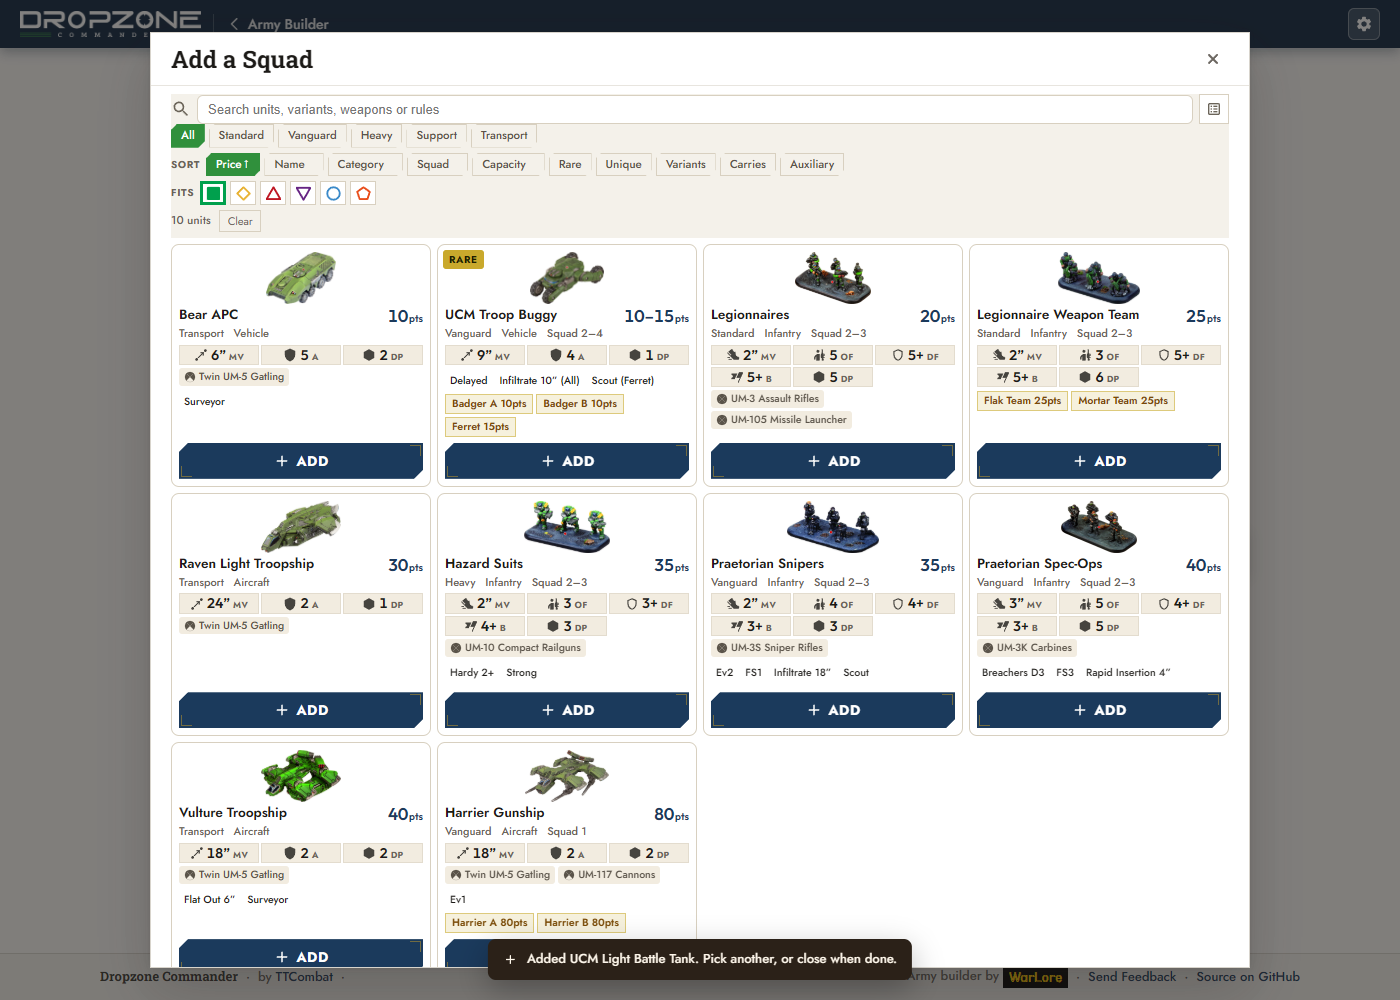
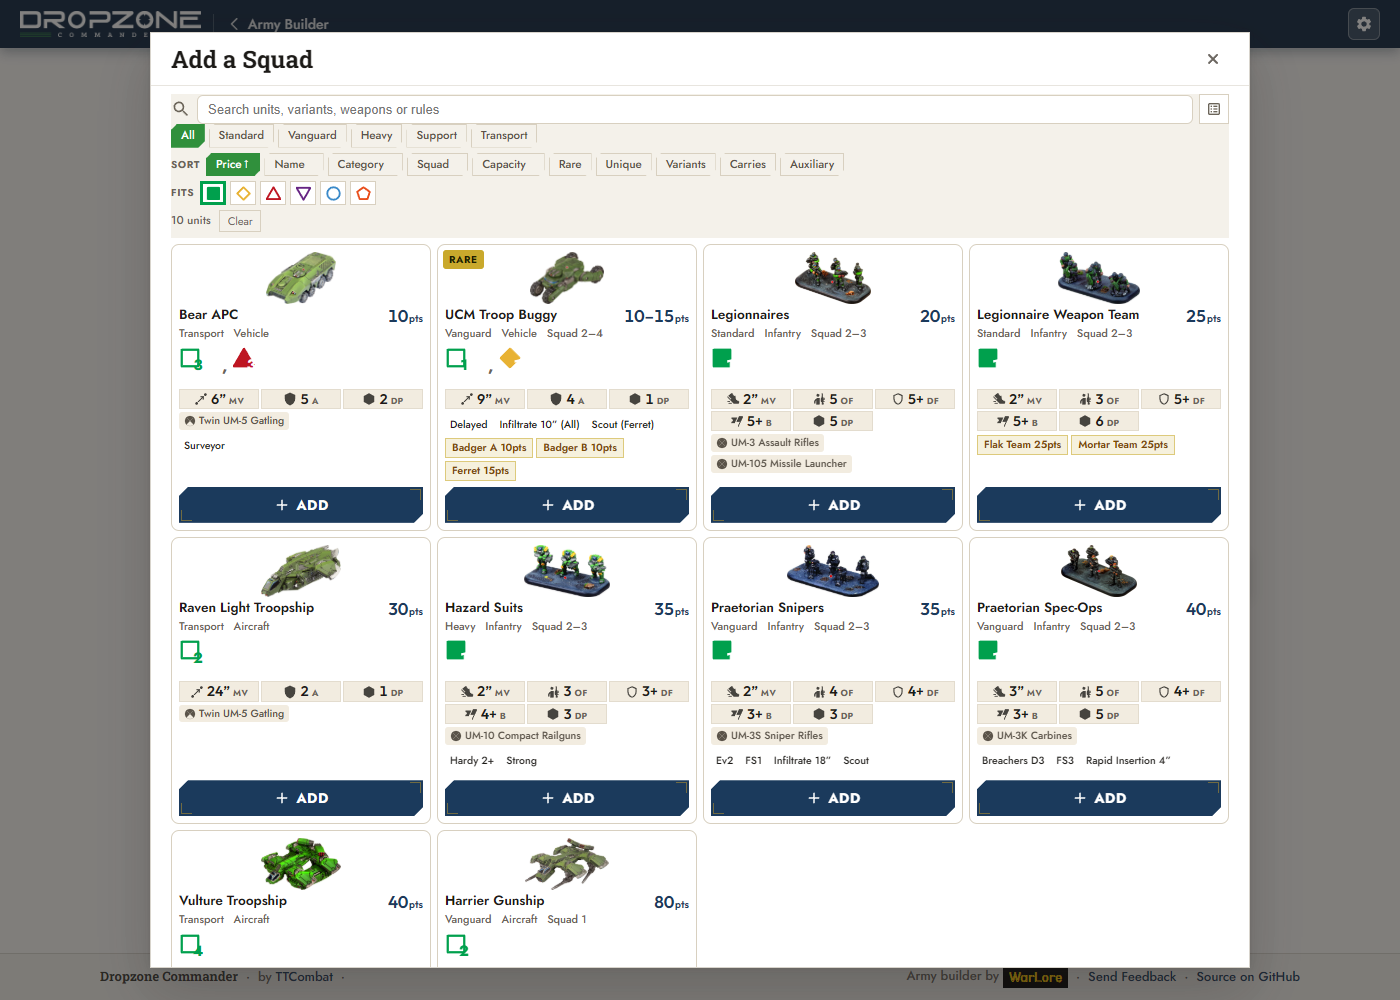
Add Squad earns its size, the symbols come out of their chips, adding closes the picker
Add Squad was a ghost button in the smallest size the app has, for the main
action in the builder. It is now the widest solid thing in the Group card, in
the faction accent, chamfered like Create so the two read as the same family of
"this makes something". Hovering is a move, not a tint: the chevron rotates out
of its tile, the label slides over to meet it, a gold band sweeps the face and
a hairline draws along the bottom edge. All transform and opacity, so it
composites on the GPU and shifts nothing around it. prefers-reduced-motion
keeps the rotation and drops the travel.

The transport symbols are on the picker card now. Which shape a unit fills and
which it offers is what decides whether two things can share a Group at all
(3.2.4.2) -- needing to open the unit to find that out made the one deciding
fact the one hidden fact.

They are also out of the chips, in both places. In the Group header capacity
gets its own band with the shape at 30px and the count in the numeral face,
instead of being one more small grey pill in a row of small grey pills; the
points, Squads and models beside it lose their boxes and become plain text. On
the picker card the badges go to 38px -- a triangle only has room for a digit
near its base, so the small version was hiding the count, and the count is half
the symbol.

Adding a Squad now closes the picker and puts you back on the army. Keeping it
open to "pick another" is what the Dropfleet builder does, but there a Group is
[…]

Changed region(s): [[0.1229, 0.341, 0.8907, 0.992]]

diff --git a/css/dzc.css b/css/dzc.css
@@ -403,22 +403,45 @@
 /* What the Group costs, how big it is, and what its Transports still have room
  * for. Icon, number, then the unit spelled out -- "3" beside a shape is not an
  * answer to anything on its own. Wraps rather than clipping. */
+/* Three small facts, as plain text. Boxing each one turned the top of every
+   Group into a row of grey pills competing with the Squads beneath it. */
 .dzc-g-meters {
-  display: flex; flex-wrap: wrap; align-items: center; gap: 4px 6px;
-  margin: 0 0 8px; padding-bottom: 8px; border-bottom: 1px solid var(--line, #eee5d6);
+  display: flex; flex-wrap: wrap; align-items: center; gap: 2px 16px; margin: 0 0 8px;
 }
 .dzc-meter {
-  display: inline-flex; align-items: center; gap: 4px;
-  padding: 3px 7px; background: var(--surface-3, #f2ece0);
-  font-size: 11px; color: var(--ink-2, #5b544a);
+  display: inline-flex; align-items: baseline; gap: 5px;
+  font-size: 11.5px; color: var(--ink-2, #5b544a);
 }
-.dzc-meter svg { flex: 0 0 auto; }
-.dzc-meter b { font: 700 13px/1 var(--font-numeric, 'Outfit', sans-serif); color: var(--ink, #2c2a26); }
+.dzc-meter svg { flex: 0 0 auto; align-self: center; opacity: .6; }
+.dzc-meter b { font: 700 15px/1 var(--font-numeric, 'Outfit', sans-serif); color: var(--ink, #2c2a26); }
 .dzc-meter i { font-style: normal; }
-.dzc-meter.is-full { background: #e4f2e9; color: #14532d; }
-.dzc-meter.is-full b { color: #14532d; }
-.dzc-meter.is-over { background: #fbe6e6; color: var(--danger, #b3261e); }
-.dzc-meter.is-over b { color: var(--danger, #b3261e); }
+.dzc-meter.is-over, .dzc-meter.is-over b { color: var(--danger, #b3261e); }
+
+/* Capacity, at size and out of a box. This is the fact that decides whether
+   the next thing you pick can join the Group at all (3.2.4.2) -- it is not one
+   more small grey pill in a row of small grey pills. */
+.dzc-g-space {
+  display: flex; flex-wrap: wrap; gap: 10px 24px; align-items: center;
+  margin: 0 0 10px; padding: 9px 0;
+  border-top: 1px solid var(--line, #eee5d6); border-bottom: 1px solid var(--line, #eee5d6);
+}
+.dzc-space { display: inline-flex; align-items: center; gap: 9px; }
+.dzc-space svg { flex: 0 0 auto; }
+.dzc-space-n { display: inline-flex; align-items: baseline; font-family: var(--font-numeric, 'Outfit', sans-serif); }
+.dzc-space-n b { font-size: 26px; font-weight: 700; line-height: 1; color: var(--ink, #2c2a26); }
+.dzc-space-n s { text-decoration: none; font-size: 18px; color: #b3aa9a; padding: 0 2px; }
+.dzc-space-n em { font-style: normal; font-size: 18px; font-weight: 600; color: var(--ink-2, #6b6459); }
+.dzc-space-lab {
+  display: flex; flex-direction: column; gap: 1px;
+  font: 600 11px/1.2 var(--font-ui, 'Jost', sans-serif);
+  text-transform: uppercase; letter-spacing: .05em; color: var(--ink-2, #5b544a);
+}
+.dzc-space-lab i {
+  font: 500 10.5px/1.2 var(--font-ui, 'Jost', sans-serif);
+  text-transform: none; letter-spacing: 0; color: #9a9184;
+}
+.dzc-space.is-full .dzc-space-n b, .dzc-space.is-full .dzc-space-lab i { color: #14532d; }
+.dzc-space.is-over .dzc-space-n b, .dzc-space.is-over .dzc-space-lab i { color: var(--danger, #b3261e); }
 
 /* Nesting is drawn: a carried Squad is indented under its carrier. */
 .dzc-squad { margin-left: calc(var(--depth) * 22px); padding: 6px 0; border-top: 1px solid var(--line, #eee5d6); }
@@ -449,6 +472,79 @@
 /* Sticky, so it stays reachable down a long army instead of living at the
    bottom of the list. Smaller than it was, because it no longer has to shout
    from off-screen. */
+/* ── Add Squad ──
+   The main action in the builder, and it was a ghost button in the smallest
+   size the app has. Now it is the widest solid thing in the Group card, in the
+   faction accent, chamfered like the Create button so the two read as the same
+   family of "this makes something".
+
+   The hover is a real move, not a tint: the chevron slides out of its box and
+   the label slides over to meet it, a gold band sweeps the face behind the
+   text, and the whole thing lifts. Every step is transform or opacity, so it
+   composites on the GPU and does not reflow anything around it. */
+.dzc-add-squad {
+  position: relative; overflow: hidden; isolation: isolate;
+  display: flex; align-items: center; gap: 10px; width: 100%;
+  margin-top: 10px; padding: 12px 16px; cursor: pointer;
+  border: 0; border-radius: 0;
+  clip-path: polygon(12px 0, 100% 0, 100% calc(100% - 12px), calc(100% - 12px) 100%, 0 100%, 0 12px);
+  background: var(--acc, #1b3a5c); color: #fff;
+  font: 700 15px/1 var(--font-ui, 'Jost', sans-serif);
+  letter-spacing: .06em; text-transform: uppercase;
+  transition: transform 180ms cubic-bezier(.33,0,.67,1), box-shadow 180ms cubic-bezier(.33,0,.67,1);
+}
+/* The chevron sits in its own tile, which brightens and pushes forward. */
+.dzc-add-squad-i {
+  display: inline-flex; align-items: center; justify-content: center;
+  width: 30px; height: 30px; flex: 0 0 auto;
+  background: rgba(255,255,255,.14);
+  transition: transform 260ms cubic-bezier(.34,1.4,.64,1), background 200ms ease;
+}
+.dzc-add-squad-t { transition: transform 260ms cubic-bezier(.34,1.4,.64,1); }
+/* The sweep, behind the label. Same gold band as the Create button. */
+.dzc-add-squad::before {
+  content: ''; position: absolute; inset: 0; z-index: -1;
+  background: linear-gradient(105deg, transparent 30%, var(--gold, #c9a92c) 50%, transparent 70%);
+  opacity: .55; transform: translateX(-130%);
+  transition: transform 560ms cubic-bezier(.33,0,.67,1);
+}
+/* A hairline that draws itself along the bottom edge. */
+.dzc-add-squad::after {
+  content: ''; position: absolute; left: 0; right: 0; bottom: 0; height: 2px;
+  background: var(--gold, #c9a92c); transform: scaleX(0); transform-origin: left;
+  transition: transform 320ms cubic-bezier(.33,0,.67,1);
+}
+.dzc-add-squad:hover, .dzc-add-squad:focus-visible {
+  transform: translateY(-2px); box-shadow: 0 6px 18px rgba(27,26,23,.26);
+}
+.dzc-add-squad:hover::before, .dzc-add-squad:focus-visible::before { transform: translateX(130%); }
+.dzc-add-squad:hover::after, .dzc-add-squad:focus-visible::after { transform: scaleX(1); }
+.dzc-add-squad:hover .dzc-add-squad-i,
+.dzc-add-squad:focus-visible .dzc-add-squad-i {
+  transform: translateX(4px) rotate(90deg); background: rgba(255,255,255,.26);
+}
+.dzc-add-squad:hover .dzc-add-squad-t,
+.dzc-add-squad:focus-visible .dzc-add-squad-t { transform: translateX(8px); }
+.dzc-add-squad:active { transform: translateY(1px) scale(.99); box-shadow: none; }
+@media (prefers-reduced-motion: reduce) {
+  .dzc-add-squad, .dzc-add-squad::before, .dzc-add-squad::after,
+  .dzc-add-squad-i, .dzc-add-squad-t { transition: none; }
+  .dzc-add-squad:hover, .dzc-add-squad:active { transform: none; }
+  .dzc-add-squad:hover .dzc-add-squad-i { transform: rotate(90deg); }
+  .dzc-add-squad:hover .dzc-add-squad-t { transform: none; }
+}
+
+/* Symbols on the picker card, at the size they deserve. Which shape a unit
+   fills and which it offers is what decides whether two things can share a
+   Group at all, so it is the single most consequential fact on the card — it
+   does not go in a little chip beside the others. A triangle also only has
+   room for a digit near its base, so shrinking these hid the count, and the
+   count is half the symbol. */
+.dzc-pick .dzc-transport { margin: 5px 0 1px; gap: 4px; }
+.dzc-pick .dzc-badge { width: 38px; height: 38px; }
+.dzc-pick .dzc-badge-n { font-size: 15px; }
+.dzc-pick .dzc-sep { font-size: 17px; }
+
 .dzc-add-group {
   position: sticky; bottom: 12px; z-index: 3;
   margin-top: 8px; width: 100%;

diff --git a/js/dzc-builder.js b/js/dzc-builder.js
@@ -332,25 +332,30 @@
     const squads = g.squads.length;
     const U = window.DZCUnits;
 
+    /* Capacity is the loudest thing here. It is what decides whether the next
+     * thing you pick can even join this Group (3.2.4.2), so the shape is drawn
+     * at a size you read across the room and the count is set in the numeral
+     * face -- not folded into the row of small facts beside it. */
     const space = window.DZCArmy.groupSpace(a, g).map(sp => {
       const free = sp.total - sp.used;
       const name = U.shapeName(sp.shape);
-      return `<span class="dzc-meter${sp.used > sp.total ? ' is-over' : free === 0 ? ' is-full' : ''}"
-        title="${esc(`${sp.used} of ${sp.total} ${name} capacity used${
-          free > 0 ? `, room for ${free} more` : sp.used > sp.total ? ' — overloaded' : ' — full'}`)}">
-        ${U.shape(sp.shape, 13, true)}<b>${sp.used}</b><i>of ${sp.total} ${esc(name)}</i></span>`;
+      return `<span class="dzc-space${sp.used > sp.total ? ' is-over' : free === 0 ? ' is-full' : ''}"
+        style="--sh:${U.shapeInk(sp.shape)}">
+        ${U.shape(sp.shape, 30, true)}
+        <span class="dzc-space-n"><b>${sp.used}</b><s>/</s><em>${sp.total}</em></span>
+        <span class="dzc-space-lab">${esc(name)}<i>${
+          free > 0 ? `room for ${free}` : sp.used > sp.total ? 'overloaded' : 'full'}</i></span></span>`;
     }).join('');
 
     return `<div class="dzc-g-meters">
-      <span class="dzc-meter${cost > cap ? ' is-over' : ''}"
-            title="${esc(`${cost} of the ${cap}pt ceiling one Group may spend (3.2)`)}">
-        ${window.DZCIcon('calculate', { size: 13 })}<b>${cost}</b><i>of ${cap}pts</i></span>
-      <span class="dzc-meter" title="${esc(`${squads} Squad${squads === 1 ? '' : 's'} in this Group`)}">
-        ${window.DZCIcon('groups', { size: 13 })}<b>${squads}</b><i>Squad${squads === 1 ? '' : 's'}</i></span>
-      <span class="dzc-meter" title="${esc(`${models} model${models === 1 ? '' : 's'} in this Group`)}">
-        ${window.DZCIcon('deployed_code', { size: 13 })}<b>${models}</b><i>model${models === 1 ? '' : 's'}</i></span>
-      ${space}
-    </div>`;
+      <span class="dzc-meter${cost > cap ? ' is-over' : ''}">
+        ${window.DZCIcon('calculate', { size: 14 })}<b>${cost}</b><i>of ${cap}pts</i></span>
+      <span class="dzc-meter">
+        ${window.DZCIcon('groups', { size: 14 })}<b>${squads}</b><i>Squad${squads === 1 ? '' : 's'}</i></span>
+      <span class="dzc-meter">
+        ${window.DZCIcon('deployed_code', { size: 14 })}<b>${models}</b><i>model${models === 1 ? '' : 's'}</i></span>
+    </div>
+    ${space ? `<div class="dzc-g-space">${space}</div>` : ''}`;
   }
 
   function groupHtml(a, g) {
@@ -369,7 +374,9 @@
       </header>
       ${groupMeters(a, g)}
       ${rows || '<p class="dzc-g-empty">No Squads yet.</p>'}
-      <button class="btn btn-ghost btn-sm" type="button" onclick="DZCBuilder.openPicker('${g.id}')">+ Add Squad</button>
+      <button class="dzc-add-squad" type="button" onclick="DZCBuilder.openPicker('${g.id}')">
+        <span class="dzc-add-squad-i">${window.DZCIcon('add', { size: 20 })}</span>
+        <span class="dzc-add-squad-t">Add Squad</span></button>
     </section>`;
   }
 
@@ -812,6 +819,11 @@
           <span class="dzc-pick-cost">${price}<small>pts</small></span>
         </div>
         <span class="dzc-pick-meta">${meta}</span>
+        <!-- The symbols, on the card you choose from. Which shape a unit fills
+             and which it offers is what decides whether two things can share a
+             Group at all (3.2.4.2), so needing to open the unit to find out
+             made the one deciding fact the one hidden fact. -->
+        ${U.transportHtml(u)}
         ${unitFacts(u, a.faction, { compact: true })}
         <!-- The variant IS the choice: a different gun, sometimes a different
              role. Burying it in a per-model select inside the Squad you already
@@ -827,10 +839,10 @@
     </div>`;
   }
 
-  /* Adding does NOT close the picker. You are usually building a Group out of
-   * several Squads, and bouncing back to the list after each one made that a
-   * chore. The picker re-renders so Rare/Unique limits and squad-size blocks
-   * update against what you just took. */
+  /* Adding closes the picker and puts you back on the army. Keeping it open to
+   * "pick another" is what the Dropfleet builder does, but there a Group is a
+   * shopping list; here a Group is a Transport and its cargo, and every add
+   * changes what the next legal one is. You want to see what you just made. */
   async function pick(unitId) {
     const g = (current.groups || []).find(x => x.id === picker.groupId);
     const u = window.DZC.unit(current.faction, unitId);
@@ -852,8 +864,8 @@
       if (target) {
         const r = window.DZCArmy.assignTransport(current, target.id, unitId);
         if (!r.ok) return say(r.reason);
+        closePicker();
         await renderBuilder(current.id);
-        renderPickList();
         return say(r.warn || `${u.name} added, carrying ${
           window.DZCArmy.unitOf(current, target).name}.`, 'local_shipping');
       }
@@ -878,9 +890,14 @@
     });
     if (carrier) s.carriedBy = carrier.id;
 
+    closePicker();
     await renderBuilder(current.id);
-    renderPickList();
-    say(`Added ${u.name}. Pick another, or close when done.`, 'add');
+    say(`Added ${u.name}.`, 'add');
+  }
+
+  function closePicker() {
+    const m = document.getElementById('dzc-picker');
+    if (m) m.classList.remove('active');
   }
 
   // -------------------------------------------------------------- print sheet
@@ -1149,7 +1166,7 @@
       if (box) box.value = '';
       renderPickList();
     },
-    closePicker: () => document.getElementById('dzc-picker').classList.remove('active'),
+    closePicker,
     closeNew: () => document.getElementById('dzc-new').classList.remove('active')
   };
 })();
